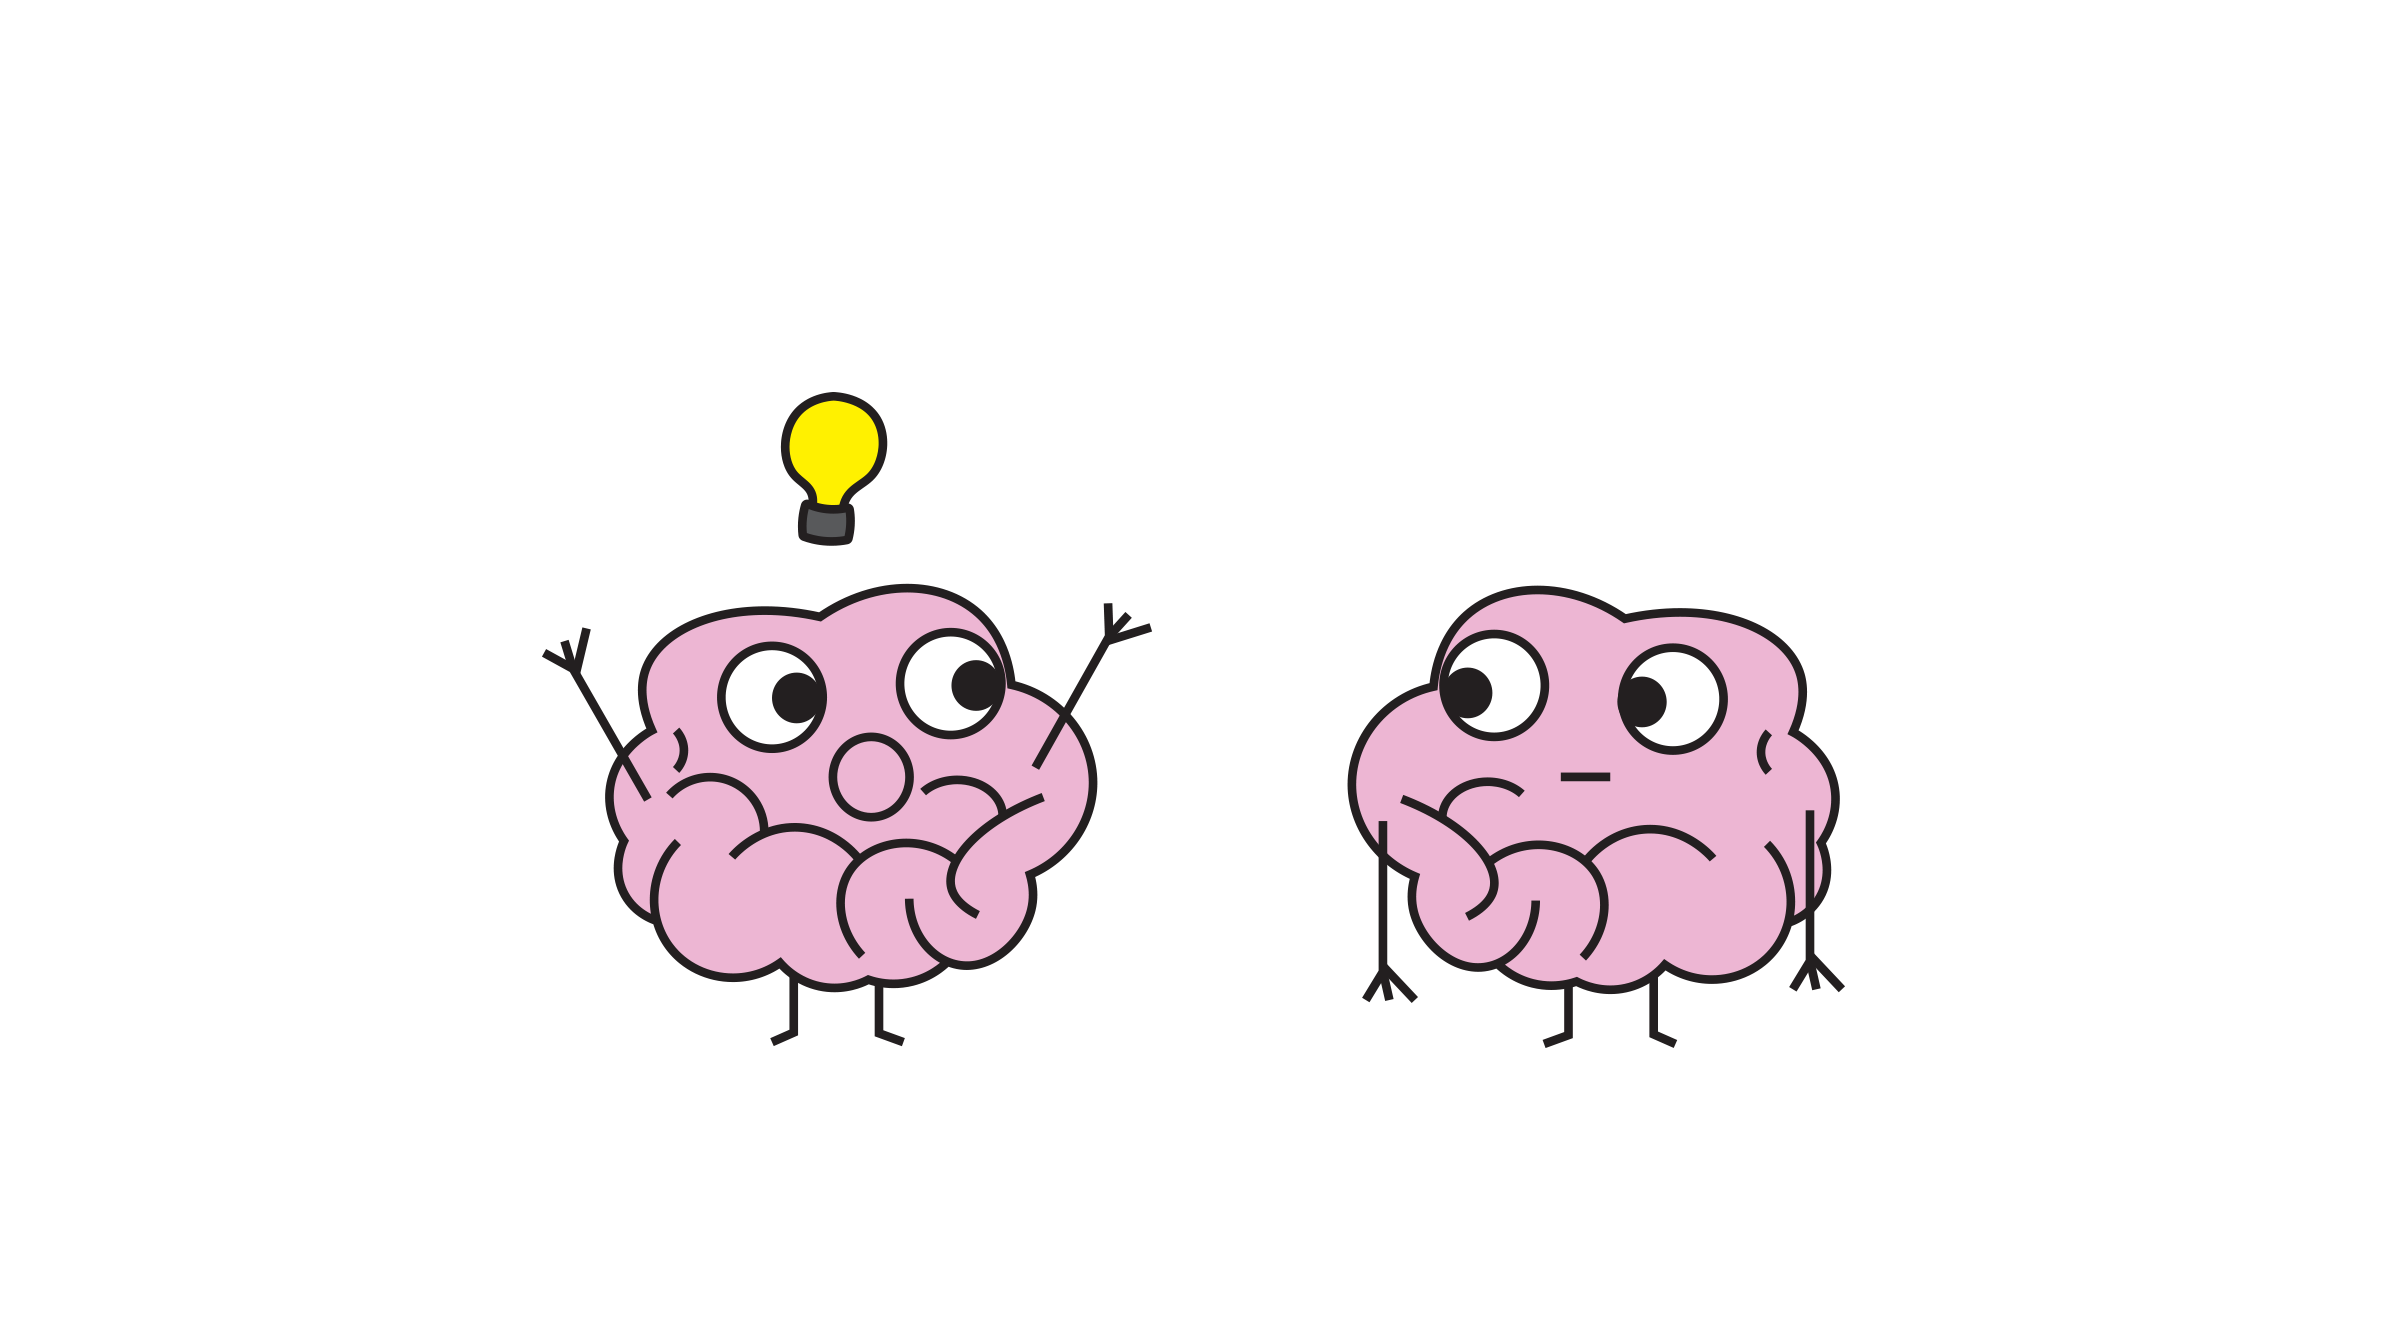
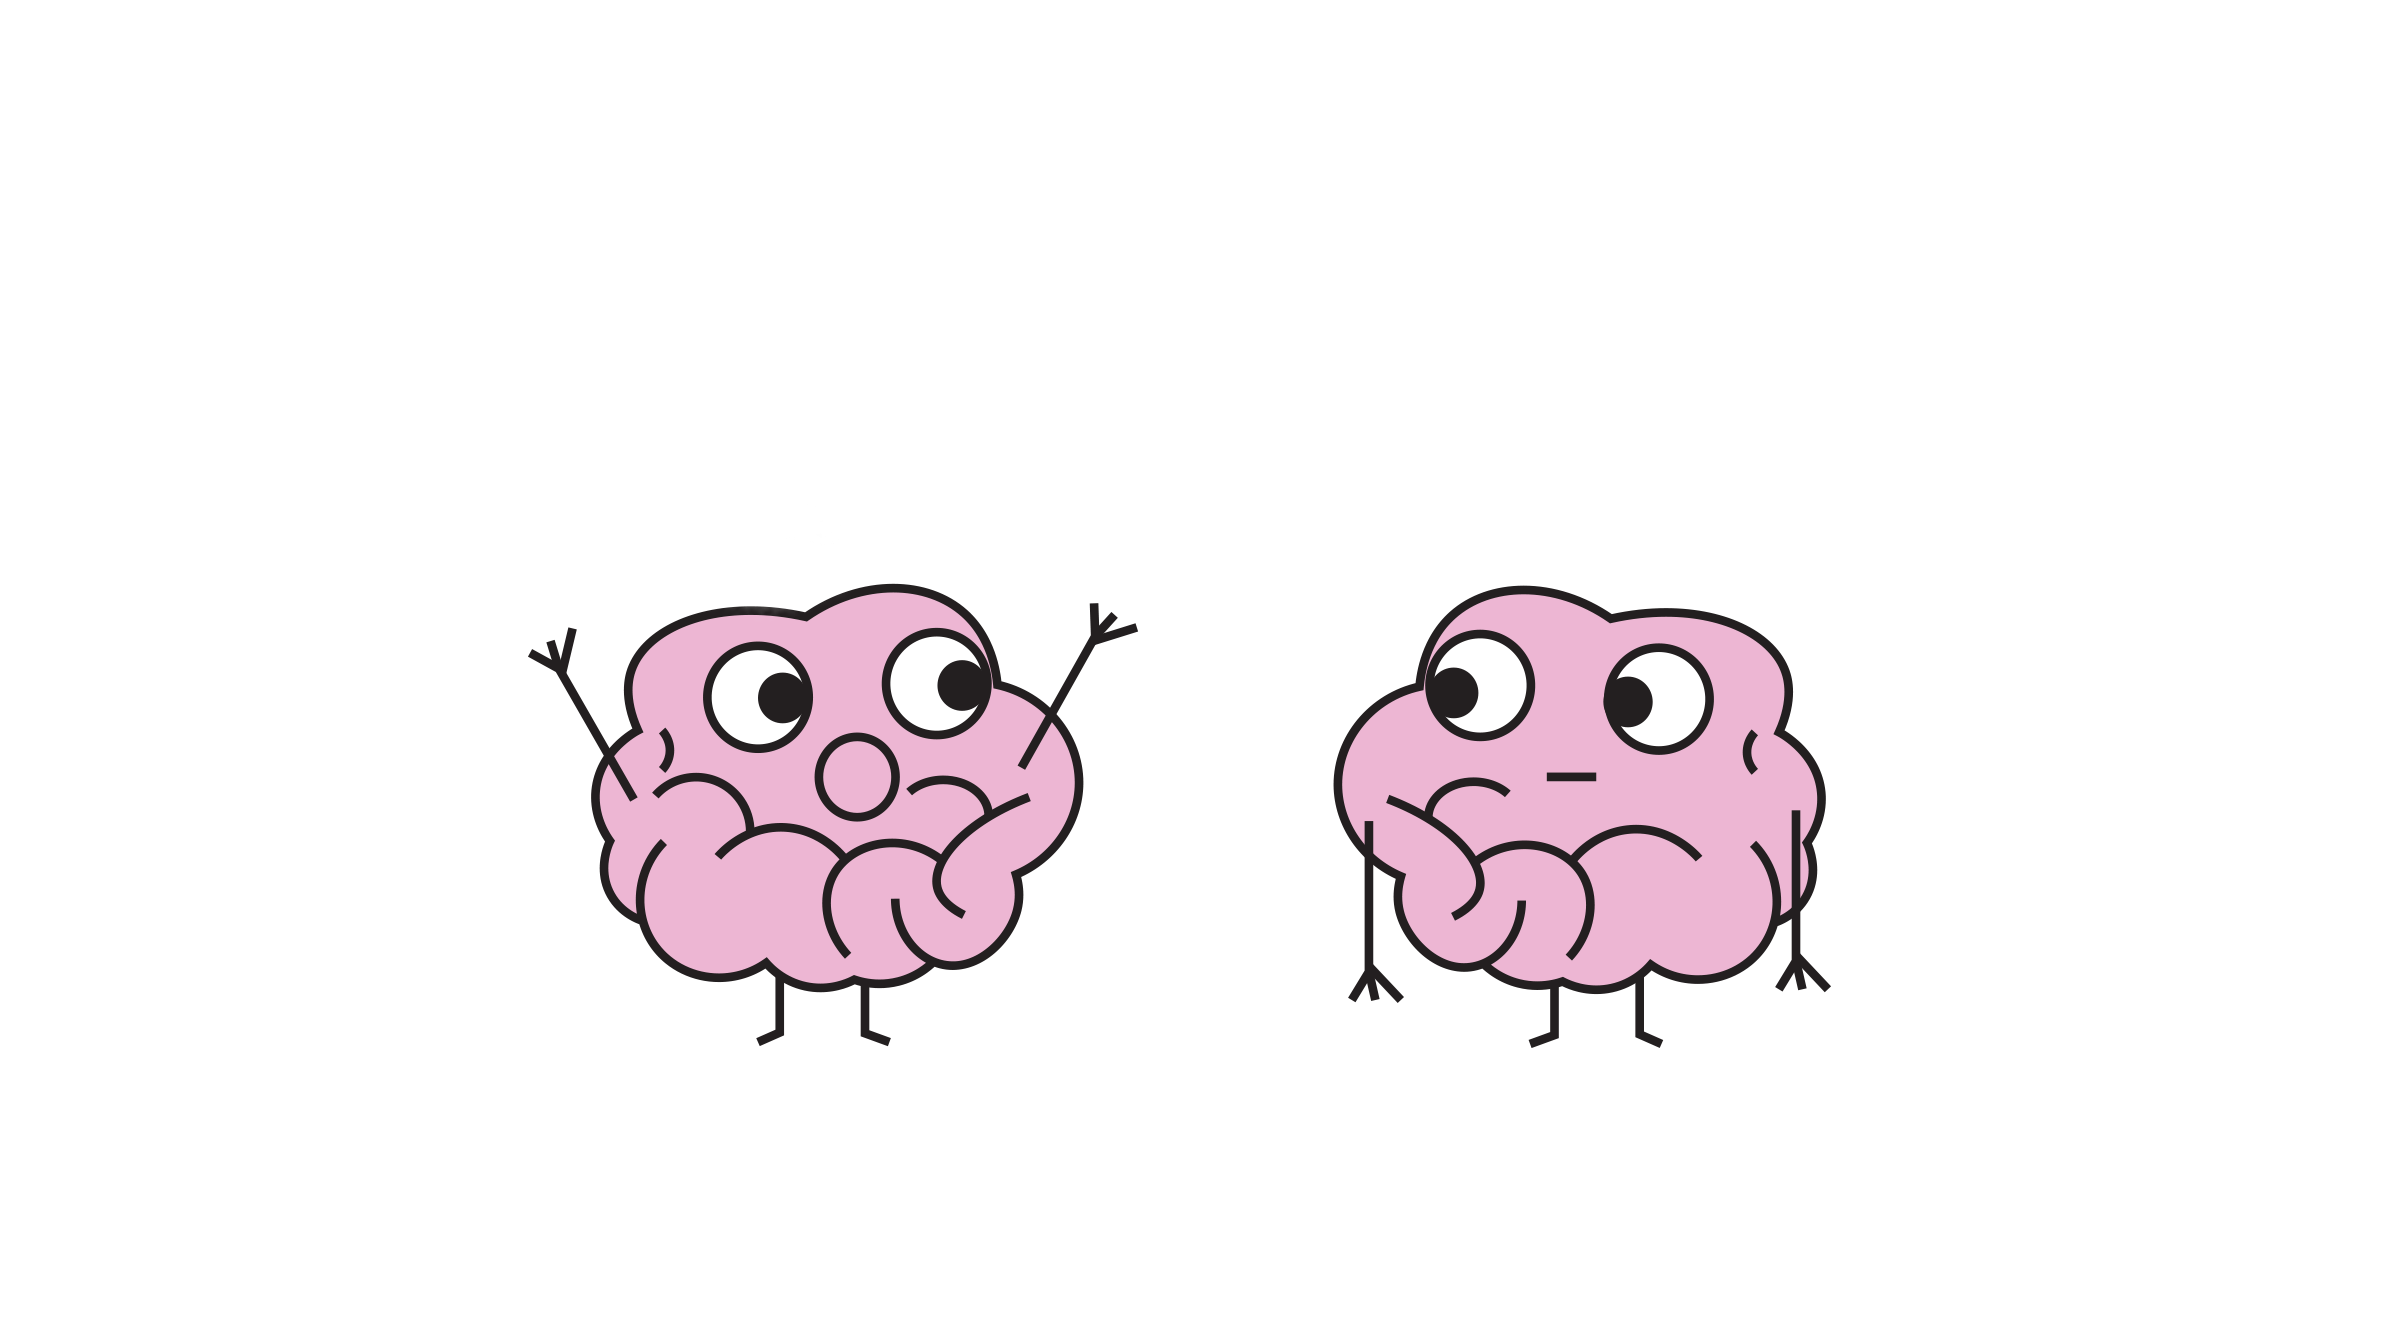
add recursion effect

Changed region(s): [[0.2169, 0.4375, 0.4958, 0.7812], [0.5578, 0.4375, 0.7747, 0.7812], [0.3099, 0.2812, 0.3719, 0.4062]]

diff --git a/css/style.css b/css/style.css
@@ -20,12 +20,25 @@ body {
   -webkit-transition: 0.1s all !important;
   transition: 0.1s all !important;
 }
+.fadedt {
+  opacity: 0;
+}
+.zoomed {
+  -webkit-transform: scale(30);
+          transform: scale(30);
+  -webkit-transform-origin: 50% 20%;
+          transform-origin: 50% 20%;
+  -webkit-transition: 1s all;
+  transition: 1s all;
+}
 .top,
 .left,
 .bottom,
-.right {
+.right,
+.left2,
+.right2 {
   position: fixed;
-  z-index: 1;
+  z-index: 100;
   background-color: #fff;
   display: -webkit-box;
   display: -ms-flexbox;
@@ -43,6 +56,12 @@ body {
   height: 80%;
   top: 10%;
 }
+.left2,
+.right2 {
+  width: 10%;
+  height: 100%;
+  top: 0;
+}
 .top {
   top: 0;
   border-bottom: 5px solid #000;
@@ -59,6 +78,9 @@ body {
 .left {
   left: 0;
   border-right: 5px solid #000;
+}
+.left2 {
+  left: 0;
 }
 .right {
   right: 0;
@@ -78,6 +100,9 @@ body {
           flex-direction: column;
   font-size: 2em;
 }
+.right2 {
+  right: 0;
+}
 .bottom {
   bottom: 0;
   border-top: 5px solid #000;
@@ -91,9 +116,11 @@ body {
   top: 10%;
   left: 10%;
   position: fixed;
-  background-image: url("../media/background.png");
+  background-image: url("../media/brains/background.png");
   background-size: cover;
   background-position: center;
+  -webkit-transition: 1s all;
+  transition: 1s all;
 }
 .cont {
   height: 100%;
@@ -111,6 +138,8 @@ body {
   -webkit-box-align: center;
       -ms-flex-align: center;
           align-items: center;
+  -webkit-transition: 1s all;
+  transition: 1s all;
 }
 .full .panel {
   height: 80%;
@@ -154,9 +183,24 @@ body {
   -webkit-transition: all 1s;
   transition: all 1s;
 }
-.scaled {
-  -webkit-transform: scale(0.5) !important;
-          transform: scale(0.5) !important;
+.full .sub .rec,
+.full .sub .glow {
+  max-height: 100%;
+  max-width: 100%;
+  height: auto;
+  width: auto;
+  -webkit-transition: all 1s;
+  transition: all 1s;
+}
+.full .sub .glow:hover {
+  -webkit-filter: drop-shadow(5px 5px 5px #ff0) drop-shadow(-5px -5px 5px #ff0) drop-shadow(5px -5px 5px #ff0) drop-shadow(-5px 5px 5px #ff0);
+          filter: drop-shadow(5px 5px 5px #ff0) drop-shadow(-5px -5px 5px #ff0) drop-shadow(5px -5px 5px #ff0) drop-shadow(-5px 5px 5px #ff0);
+}
+.full .sub .rec:hover {
+  -webkit-filter: drop-shadow(5px 5px 5px #fff) drop-shadow(-5px -5px 5px #fff);
+          filter: drop-shadow(5px 5px 5px #fff) drop-shadow(-5px -5px 5px #fff);
+}
+.full .inf {
   cursor: pointer;
 }
 /* IDS */

diff --git a/js/main.js b/js/main.js
@@ -1,3 +1,5 @@
+
+
 // initialize fullpage.js
 let f_init = _=>{
   $('.cont').fullpage({
@@ -9,7 +11,7 @@ let f_init = _=>{
       $('.sub').addClass('fadedd')
       n_up(b.index)
       setTimeout(_=>{
-        $('.sub').removeClass('fadedd')
+        $('.panel').eq(b.index).children('.sub').removeClass('fadedd')
       }, 500)
     }
   })
@@ -21,36 +23,52 @@ let n_up = n=>{
   $('.nav').eq(n).text('■')
 }
 
-// handles recursive action in last panel
-// turns off fullpage.js temporarily to allow DOM changes
+// handles recursive actions in last panel
 let handler = _=>{
-  let panes = $('.cont > .full')
-  let hand = $('.scaled')
-  let cpane = $('.scaled').parents('.full').clone()
+  let panes = $('.full')
+  let last = panes.last()
+  let hand = $('.inf')
+  let bg = $('.bg')
+  let sub = $('.sub')
 
-  $.fn.fullpage.destroy('all')
+  last.addClass('zoomed')
+  panes.addClass('fadedt')
+  bg.addClass('zoomed fadedt')
 
-  panes.first().remove()
-  hand.first().removeClass('scaled').off('click')
-  cpane.removeClass('active')
-  hand.addClass('active')
-  $('.cont').append(panes.slice(1, -1), cpane)
+  setTimeout(_=>{
+    $.fn.fullpage.silentMoveTo(1)
+
+    last.removeClass('zoomed')
+    bg.removeClass('zoomed')
+    sub.addClass('faded')
+
+    setTimeout(_=>{
+
+      panes.removeClass('fadedt')
+      bg.removeClass('fadedt')
+
+      setTimeout(_=>{
+        sub.removeClass('faded')
+      }, 500)
+    }, 1100)
+  }, 1000)
+
   n_up(0)
 
-  f_init()
-  $('.scaled').click(handler)
 }
 
 $(_=>{
   f_init()
 
+  // fade in everything
   n_up(0)
   $('.sub').addClass('faded')
   $('body').removeClass('faded')
   setTimeout(_=>{
     $('.sub').removeClass('faded')
   }, 500)
-  $('.scaled').click(handler)
+
+  $('.inf').click(handler)
 
   $('.nav').click(e=>{
     let ind = $(e.target).index()

diff --git a/index.html b/index.html
@@ -15,6 +15,8 @@
       
     </script>
     <!-- Fixed frame-->
+    <div class="left2"></div>
+    <div class="right2"></div>
     <div class="left"></div>
     <div class="right"><a class="nav">□</a><a class="nav">□</a><a class="nav">□</a><a class="nav">□</a><a class="nav">□</a><a class="nav">□</a>
     </div>
@@ -56,13 +58,13 @@
             <div class="full">
               <div class="panel">
                 <div class="brains" style="background-image: url(./media/brains/brains5.png)"></div>
+                <div class="sub"><img class="glow" src="./media/brains/brains5Bulb.png"></div>
               </div>
             </div>
             <div class="full">
               <div class="panel">
                 <div class="brains" style="background-image: url(./media/brains/brains6.png)"></div>
-                      <div class="sub" style="background-image: url(./media/brains/brains6Bubble1.png)">
-                      </div>
+                <div class="sub inf"><img class="rec" src="./media/brains/brains6Bubble1.png"></div>
               </div>
             </div>
     </div>
